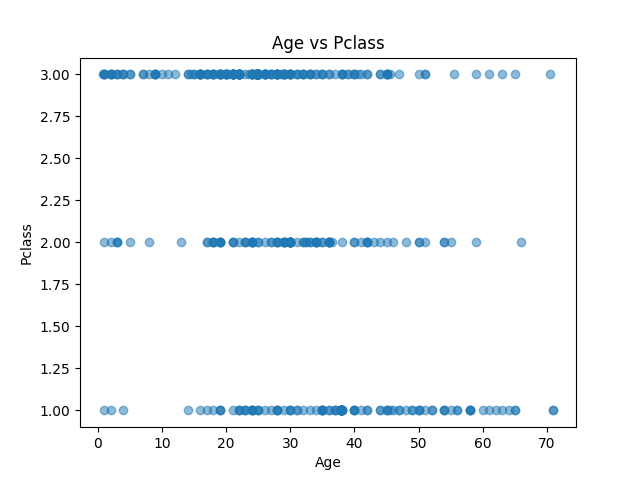
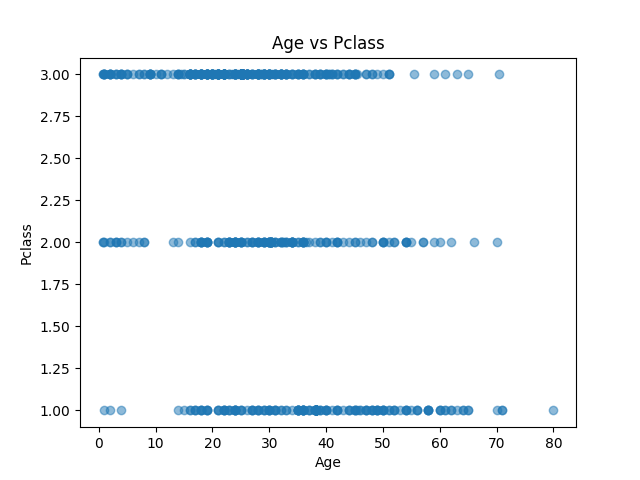
Training on features, updated readme

diff --git a/app/routes.py b/app/routes.py
@@ -1,4 +1,4 @@
-# ANSVAR: Dine endpoints:
+# ANSVAR: Endpoints:
 # / (hjemmeside/portal)
 # /health, /db-ping (tests)
 # /runs (viser runs)
@@ -10,7 +10,8 @@ from sqlalchemy import text
 from .db import db
 import joblib
 
-model = joblib.load("ml/models/titanic_mlp_pclass_age_drop_missing.pkl")
+model = joblib.load("ml/models/titanic_mlp_800_mean_age_features6.pkl")
+scaler = joblib.load("ml/models/titanic_scaler_mean_age_features6.pkl")
 
 bp = Blueprint("main", __name__)
 
@@ -20,7 +21,6 @@ def health():
 
 @bp.get("/db-ping")
 def db_ping():
-    # Tester bare at DB kan svare
     db.session.execute(text("SELECT 1"))
     return jsonify(db="ok")
 
@@ -31,8 +31,10 @@ def index():
 @bp.get("/runs")
 def runs_page():
     runs = TrainingRun.query.order_by(TrainingRun.created_at.desc()).limit(50).all()
-    # super simpelt HTML-output uden ekstra template:
-    items = "".join([f"<li>#{r.id} {r.model_name} {r.dataset} acc={r.accuracy} loss={r.loss}</li>" for r in runs])
+    items = "".join([
+        f"<li>#{r.id} {r.model_name} {r.dataset} acc={r.accuracy} loss={r.loss}</li>"
+        for r in runs
+    ])
     return f"<h1>Runs</h1><ul>{items}</ul><p><a href='/'>Tilbage</a></p>"
 
 @bp.post("/api/runs")
@@ -50,41 +52,40 @@ def create_run():
 
     return jsonify(id=run.id), 201
 
-@bp.get("/plot")
-def plot_page():
-    return """
-    <h1>Titanic plots</h1>
-
-    <h2>Age vs Pclass</h2>
-    <img src="/static/titanic_plot_age_pclass.png" alt="Age vs Pclass" style="max-width: 100%;">
-
-    <h2>Age vs Survived</h2>
-    <img src="/static/titanic_plot_age_survived.png" alt="Age vs Survived" style="max-width: 100%;">
-
-    <h2>Pclass vs Survived</h2>
-    <img src="/static/titanic_plot_pclass_survived.png" alt="Pclass vs Survived" style="max-width: 100%;">
-
-    <p><a href='/'>Tilbage</a></p>
-    """
-
-
 @bp.post("/api/predict")
 def predict():
     data = request.get_json()
 
-    if not data or "pclass" not in data or "age" not in data:
-        return jsonify({"error": "JSON must contain pclass and age"}), 400
+    if not data or "pclass" not in data or "sex" not in data or "age" not in data:
+        return jsonify({
+            "error": "JSON must contain pclass, sex and age"
+        }), 400
 
     try:
         pclass = int(data["pclass"])
+        sex_raw = str(data["sex"]).strip().lower()
         age = float(data["age"])
+
+        sibsp = int(data.get("sibsp", 0))
+        parch = int(data.get("parch", 0))
+        fare = float(data.get("fare", 32.0))
     except (ValueError, TypeError):
-        return jsonify({"error": "pclass must be int and age must be number"}), 400
+        return jsonify({
+            "error": "Invalid input types"
+        }), 400
 
-    sample = [[pclass, age]]
+    if sex_raw not in ["male", "female"]:
+        return jsonify({
+            "error": "sex must be 'male' or 'female'"
+        }), 400
 
-    prediction = model.predict(sample)[0]
-    probability = model.predict_proba(sample)[0][1]
+    sex = 1 if sex_raw == "male" else 0
+
+    sample = [[pclass, sex, age, sibsp, parch, fare]]
+    sample_scaled = scaler.transform(sample)
+
+    prediction = model.predict(sample_scaled)[0]
+    probability = model.predict_proba(sample_scaled)[0][1]
 
     return jsonify({
         "prediction": int(prediction),

diff --git a/ml/train.py b/ml/train.py
@@ -1,7 +1,6 @@
 import psycopg2
 import pandas as pd
 import joblib
-import matplotlib.pyplot as plt
 
 from sklearn.preprocessing import StandardScaler
 from sklearn.neural_network import MLPClassifier
@@ -21,7 +20,7 @@ def load_data():
     conn = psycopg2.connect(**DB_CONFIG)
 
     query = """
-        SELECT "passenger_id", pclass, age, survived
+        SELECT "passenger_id", survived, pclass, sex, age, sibsp, parch, fare
         FROM titanic_passengers
         ORDER BY "passenger_id"
     """
@@ -59,47 +58,22 @@ def train():
     # x = features
     xdata = data.drop("survived", axis=1).copy()
 
+    # Map køn
+    xdata["sex"] = xdata["sex"].map({"female": 0, "male": 1})
+
     # passenger_id giver normalt ikke mening som feature
     xdata.drop("passenger_id", axis=1, inplace=True)
 
-    # Fill missing age med gennemsnit inden for samme pclass
-    xdata["age"] = xdata.groupby("pclass")["age"].transform(
-        lambda col: col.fillna(col.mean())
-    )
+    # Indsætter gennemsnits alder, hvis age er null
+    xdata["age"] = xdata["age"].fillna(xdata["age"].mean())
 
-    # Plot 1: age vs pclass
-    plt.figure()
-    plt.scatter(xdata["age"], xdata["pclass"], alpha=0.5)
-    plt.xlabel("Age")
-    plt.ylabel("Pclass")
-    plt.title("Age vs Pclass")
-    plt.savefig("app/static/titanic_plot_age_pclass.png")
-    plt.close()
 
-    # Plot 2: age vs survived
-    plt.figure()
-    plt.scatter(xdata["age"], yvalues["survived"], alpha=0.5)
-    plt.xlabel("Age")
-    plt.ylabel("Survived")
-    plt.title("Age vs Survived")
-    plt.savefig("app/static/titanic_plot_age_survived.png")
-    plt.close()
+    print("Rows after preprocessing:", len(xdata))
 
-    # Plot 3: pclass vs survived
-    plt.figure()
-    plt.scatter(xdata["pclass"], yvalues["survived"], alpha=0.5)
-    plt.xlabel("Pclass")
-    plt.ylabel("Survived")
-    plt.title("Pclass vs Survived")
-    plt.savefig("app/static/titanic_plot_pclass_survived.png")
-    plt.close()
-
-    print("Rows after fillna by class:", len(xdata))
-
-    xtrain = xdata.iloc[:400]
-    xtest = xdata.iloc[400:]
-    ytrain = yvalues.iloc[:400]
-    ytest = yvalues.iloc[400:]
+    xtrain = xdata.iloc[:640]
+    xtest = xdata.iloc[640:]
+    ytrain = yvalues.iloc[:640]
+    ytest = yvalues.iloc[640:]
 
     print("xtrain shape:", xtrain.shape)
     print("xtest shape:", xtest.shape)
@@ -121,7 +95,9 @@ def train():
 
     model.fit(xtrain_scaled, ytrain.values.ravel())
 
-    joblib.dump(model, "ml/models/titanic_mlp_mean_age.pkl")
+    joblib.dump(model, "ml/models/titanic_mlp_800_mean_age_features6.pkl")
+
+    joblib.dump(scaler, "ml/models/titanic_scaler_mean_age_features6.pkl")
 
     predictions = model.predict(xtest_scaled)
     probabilities = model.predict_proba(xtest_scaled)
@@ -138,7 +114,7 @@ def train():
     loss = log_loss(ytest, probabilities)
 
     save_training_run(
-        model_name="MLPClassifier_mean_age_by_class_400_rest_scaled",
+        model_name="MLP_800_mean_age_features6_80_20_scaled",
         dataset="titanic_passengers",
         accuracy=float(accuracy),
         loss=float(loss)

diff --git a/README.md b/README.md
@@ -1,6 +1,6 @@
 # Titanic ML Prediction API
 
-This project is a machine learning API that predicts whether a Titanic passenger would survive based on features such as passenger class and age.
+This project is a machine learning API that predicts whether a Titanic passenger would survive based on passenger data.
 
 The application is built using Python and Flask, uses a PostgreSQL database, and runs in Docker containers.
 
@@ -9,6 +9,11 @@ The application is built using Python and Flask, uses a PostgreSQL database, and
 ## About
 
 This project was built as part of my learning in backend development, machine learning and containerized applications.
+
+The focus has been on:
+- building a full ML pipeline
+- experimenting with features
+- integrating a trained model into an API
 
 ---
 
@@ -49,12 +54,20 @@ Runs locally using Docker.
 
 ## Model
 
-The model is trained using the Titanic dataset and predicts survival based on:
+The model is an MLPClassifier (neural network) trained on ~800 passengers.
 
-- Passenger class (pclass)
-- Age
+### Features used:
+- pclass (passenger class)
+- sex (encoded: female=0, male=1)
+- age (filled with mean)
+- sibsp (siblings/spouses aboard)
+- parch (parents/children aboard)
+- fare (ticket price)
 
-The model is a simple machine learning model built using scikit-learn.
+### Preprocessing:
+- Missing age values are filled with mean
+- StandardScaler is used to normalize all features
+- Data is split into 80% training / 20% testing
 
 ---
 
@@ -80,34 +93,66 @@ docker-compose up --build
 http://localhost:5000
 ```
 
-## Example API request
+## API Usage
 
-POST request:
+### POST /api/predict
 
+Required fields:
 ```JSON
 {
   "pclass": 3,
+  "sex": "male",
   "age": 25
 }
 ```
 
+Optional fields (defaults used if omitted):
+```JSON
+{
+  "sibsp": 0,
+  "parch": 0,
+  "fare": 32
+}
+```
+
+
+### Example Response
+
+
+
+```JSON
+{
+  "prediction": 0,
+  "survival_probability": 0.23
+}
+```
+
+## Training Runs
+All model runs are stored in the database and can be viewed at:
+
+http://localhost:5000/runs
+
+Each run includes:
+- model name
+- dataset
+- accuracy
+- loss
+
+
 
 ## What I learned
 
-- Building a REST API using Flask
-
-- Training and using a machine learning model
-
-- Integrating a PostgreSQL database
-
-- Using Docker to run multi-container applications
-
-- Structuring a backend project
+- Building a REST API with Flask
+- Training and evaluating ML models
+- Feature engineering and preprocessing
+- Importance of scaling (StandardScaler)
+- Managing experiments and results
+- Running full-stack applications with Docker
 
 
 ## Future improvements
 
-- Improve model accuracy
-- Add input validation
-- Add frontend interface
-
+- Hyperparameter tuning (layers, neurons)
+- Cross-validation instead of fixed split
+- Better feature engineering
+- Frontend interface for predictions
